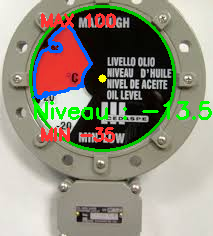
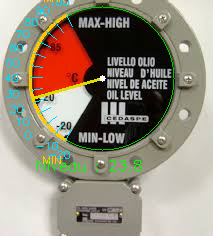
version fonctionnel avec caméra devant

diff --git a/main.py b/main.py
@@ -1,167 +1,188 @@
-# ─── Bibliothèques ────────────────────────────────────────────────────────────
+# ─── Bibliotheques ────────────────────────────────────────────────────────────
 import cv2
 import numpy as np
 
-# ─── PARAMÈTRES ───────────────────────────────────────────────────────────────
-
-# Nom de l'image à analyser (doit être dans le même dossier que ce script)
-IMAGE = "indicateur1.jpeg"
-
-# Valeurs min et max de l'échelle de l'indicateur
-VALEUR_MIN = -35
+# ─── PARAMETRES ───────────────────────────────────────────────────────────────
+IMAGE      = "indicateur1.jpeg"
+VALEUR_MIN = -20
 VALEUR_MAX = 100
 
-# ─── CHARGEMENT DE L'IMAGE ────────────────────────────────────────────────────
+# Convention trigo : 0 deg = droite, sens antihoraire, Y image inverse.
+# MIN est en bas => ~240 deg    MAX est en haut => ~120 deg
+ANGLE_MIN_DEG = 240.0
+ANGLE_MAX_DEG = 120.0
 
-# Charge l'image depuis le dossier courant
+# ─── CHARGEMENT ───────────────────────────────────────────────────────────────
 img = cv2.imread(IMAGE)
 if img is None:
-    print(f"Erreur : impossible de charger '{IMAGE}'. Vérifiez que le fichier est dans le même dossier.")
+    print(f"Erreur : impossible de charger '{IMAGE}'.")
     exit()
 
-# Fait une copie propre pour dessiner dessus à la fin
 img_resultat = img.copy()
-cv2.imshow("Etape 1 : image de base", img_resultat) #à effacer
+cv2.imshow("Etape 1 : image de base", img_resultat)  # a effacer
 
-# ─── ISOLATION DE LA ZONE CIRCULAIRE (LE CADRAN) ──────────────────────────────
+# ─── DETECTION DU CERCLE ──────────────────────────────────────────────────────
+gris        = cv2.cvtColor(img, cv2.COLOR_BGR2GRAY)
+gris_floute = cv2.GaussianBlur(gris, (9, 9), 0)
+cv2.imshow("Etape 2 : gris flou", gris_floute)  # a effacer
 
-# Convertie en niveaux de gris pour détecter le cercle
-gris = cv2.cvtColor(img, cv2.COLOR_BGR2GRAY)
-cv2.imshow("Etape 2 : image en gris", gris) #à effacer
-
-# Floute légèrement pour que la détection de cercle soit plus robuste, enlève le bruit autours des contours
-gris_floute = cv2.GaussianBlur(gris, (9, 9), 0) #La fonction fait une moyenne de la couleur des 9 pixels voisin pour chaque pixel
-cv2.imshow("Etape 3 : image en gris flou", gris_floute) #à effacer
-
-# Cherche le cercle du cadran avec la transformée de Hough
 cercles = cv2.HoughCircles(
-    gris_floute,		# image utilisé
-    cv2.HOUGH_GRADIENT, # méthode utilisé : Chaque pixel de contour (changement brusque d'intensité lumineuse) vote pour tous ces "centres possibles"
-						# dans la direction du gradient, l'endroit qui a le plus de vote est élu centre du cercle et le rayon constant est enrigistré
-    dp=1,             # résolution de l'accumulateur. 1 => même résolution que image. 2 => deux fois plus flou. valeur recommandé => 1.5
-    minDist=100,      # distance minimale entre deux centres cercles détectés
-    param1=50,        # seuil pour la senisibilité  de la détection de contours => 50 à 150
-    param2=20,        # seuil d'accumulation, minimum à attaindre pour être considéré comme un cercle (plus bas = plus permissif) ==> 20 à 100 
-    minRadius=0,
-    maxRadius=300
+    gris_floute, cv2.HOUGH_GRADIENT,
+    dp=1, minDist=100, param1=50, param2=20,
+    minRadius=0, maxRadius=300
+)
+if cercles is None:
+    print("Aucun cercle trouve. Ajuster les parametres de HoughCircles.")
+    exit()
+
+cx, cy, rayon = np.round(cercles[0][0]).astype(int)
+print(f"Cadran detecte => centre : ({cx}, {cy}), rayon : {rayon}px")
+
+masque_cercle = np.zeros(img.shape[:2], dtype=np.uint8)
+cv2.circle(masque_cercle, (cx, cy), rayon, 255, -1)
+cv2.imshow("Etape 3 : masque cadran", masque_cercle)  # a effacer
+
+# ─── MASQUE DE LA ZONE UTILE ──────────────────────────────────────────────────
+angle_min_rad = np.deg2rad(ANGLE_MIN_DEG)
+angle_max_rad = np.deg2rad(ANGLE_MAX_DEG)
+angles_arc    = np.linspace(angle_min_rad, angle_max_rad, 300)
+
+masque_secteur = np.zeros(img.shape[:2], dtype=np.uint8)
+points_arc = np.array([
+    [cx + rayon * np.cos(a), cy - rayon * np.sin(a)]
+    for a in angles_arc
+], dtype=np.int32)
+cv2.fillPoly(masque_secteur, [np.vstack([[cx, cy], points_arc])], 255)
+cv2.imshow("Etape 4 : masque zone utile", masque_secteur)  # a effacer
+
+# ─── DETECTION DU ROUGE ET DU BLANC DANS LA ZONE UTILE ───────────────────────
+hsv = cv2.cvtColor(img, cv2.COLOR_BGR2HSV)
+kernel = cv2.getStructuringElement(cv2.MORPH_ELLIPSE, (5, 5))
+
+masque_rouge = cv2.bitwise_or(
+    cv2.inRange(hsv, np.array([0,   80,  80]), np.array([10,  255, 255])),
+    cv2.inRange(hsv, np.array([160, 80,  80]), np.array([180, 255, 255]))
+)
+masque_rouge = cv2.bitwise_and(masque_rouge, masque_secteur)
+masque_rouge = cv2.morphologyEx(masque_rouge, cv2.MORPH_CLOSE, kernel)
+
+masque_blanc = cv2.inRange(hsv, np.array([0, 0, 180]), np.array([180, 60, 255]))
+masque_blanc = cv2.bitwise_and(masque_blanc, masque_secteur)
+masque_blanc = cv2.morphologyEx(masque_blanc, cv2.MORPH_CLOSE, kernel)
+
+cv2.imshow("Etape 5 : masque rouge", masque_rouge)  # a effacer
+cv2.imshow("Etape 6 : masque blanc", masque_blanc)  # a effacer
+
+# ─── CONTOUR UNIQUEMENT A LA JONCTION ROUGE/BLANC ────────────────────────────
+# On dilate les deux masques pour qu'ils se chevauchent un peu,
+# puis on prend leur intersection : seuls les pixels a la frontiere
+# rouge/blanc sont dans les deux zones dilatees en meme temps.
+# Canny sur l'image originale dans cette zone donne le contour net
+# de la frontiere, sans les bords parasites rouge/noir ou blanc/noir.
+bord_rouge = cv2.dilate(masque_rouge, kernel, iterations=3)
+bord_blanc = cv2.dilate(masque_blanc, kernel, iterations=3)
+jonction   = cv2.bitwise_and(bord_rouge, bord_blanc)
+
+contours_img      = cv2.Canny(gris, 30, 100)
+contour_frontiere = cv2.bitwise_and(contours_img, jonction)
+cv2.imshow("Etape 7 : contour frontiere rouge/blanc", contour_frontiere)  # a effacer
+
+# ─── HOUGH LINEAIRE SUR LE CONTOUR DE LA FRONTIERE ───────────────────────────
+segments = cv2.HoughLinesP(
+    contour_frontiere,
+    rho=1,
+    theta=np.pi/180,
+    threshold=15,
+    minLineLength=rayon * 0.2,
+    maxLineGap=15
 )
 
-if cercles is None:
-    print("Aucun cercle trouvé. Ajuster les paramètres de HoughCircles")
+if segments is None:
+    print("Aucun segment trouve. Verifier les masques rouge et blanc.")
     exit()
 
-# Prend le premier cercle trouvé, cadran intérieur
-cx, cy, rayon = np.round(cercles[0][0]).astype(int)
-print(f"Cadran détecté → centre : ({cx}, {cy}), rayon : {rayon}px")
+# On garde le segment dont la droite portante passe le plus pres du centre
+meilleur_segment = None
+distance_min     = float("inf")
 
-# Je crée un masque circulaire pour ignorer ce qui est en dehors du cadran
-masque_cercle = np.zeros(img.shape[:2], dtype=np.uint8)
-cv2.circle(masque_cercle, (cx, cy), rayon, 255, -1)  # -1 = remplissage
+for seg in segments:
+    x1, y1, x2, y2 = seg[0]
+    dx, dy = x2 - x1, y2 - y1
+    dist = abs(dy * cx - dx * cy + x2 * y1 - y2 * x1) / (np.sqrt(dx**2 + dy**2) + 1e-6)
+    if dist < distance_min:
+        distance_min     = dist
+        meilleur_segment = seg[0]
 
-# ─── DÉTECTION DE LA COULEUR ROSE ─────────────────────────────────────────────
+x1, y1, x2, y2 = meilleur_segment
+print(f"Segment frontiere : ({x1},{y1}) -> ({x2},{y2}), distance au centre : {distance_min:.1f}px")
 
-# Je convertis en HSV, plus pratique pour isoler une couleur
-hsv = cv2.cvtColor(img, cv2.COLOR_BGR2HSV)
+# ─── CALCUL DE L'ANGLE DE LA FRONTIERE ───────────────────────────────────────
+d1 = (x1 - cx)**2 + (y1 - cy)**2
+d2 = (x2 - cx)**2 + (y2 - cy)**2
+px_loin, py_loin = (x2, y2) if d2 > d1 else (x1, y1)
 
-# Plage de couleur pour le rose/rouge 
-# Le rose de l'indicateur tombe dans ces valeurs HSV
-rose_bas = np.array([140, 30, 150])
-rose_haut = np.array([180, 255, 255])
-masque_rose = cv2.inRange(hsv, rose_bas, rose_haut)
+angle_frontiere_rad = np.arctan2(-(py_loin - cy), px_loin - cx)
+angle_frontiere_deg = np.rad2deg(angle_frontiere_rad) % 360
+print(f"Angle frontiere : {angle_frontiere_deg:.1f} deg")
 
-# Je complète avec le rouge côté bas du spectre HSV (0-10)
-rouge_bas = np.array([0, 30, 150])
-rouge_haut = np.array([10, 255, 255])
-masque_rouge = cv2.inRange(hsv, rouge_bas, rouge_haut)
-
-# Je combine les deux masques roses/rouges
-masque_couleur = cv2.bitwise_or(masque_rose, masque_rouge)
-
-# J'applique le masque circulaire : je garde uniquement l'intérieur du cadran
-masque_final = cv2.bitwise_and(masque_couleur, masque_cercle)
-
-# ─── CALCUL DU NIVEAU ─────────────────────────────────────────────────────────
-
-# Je compte les pixels roses dans la moitié basse vs la moitié haute du cadran
-# → le fond tourne, le rose en bas = plein, le blanc en bas = vide
-hauteur_cadran = rayon * 2
-
-# Je découpe le masque dans la zone du cadran
-y1 = max(cy - rayon, 0)
-y2 = min(cy + rayon, img.shape[0])
-x1 = max(cx - rayon, 0)
-x2 = min(cx + rayon, img.shape[1])
-
-zone_masque = masque_final[y1:y2, x1:x2]
-
-# Je calcule le ratio de pixels roses sur l'ensemble de la zone du cadran
-pixels_roses = np.count_nonzero(zone_masque)
-pixels_total = np.count_nonzero(masque_cercle[y1:y2, x1:x2])
-ratio = pixels_roses / pixels_total if pixels_total > 0 else 0
-
-# Je mappe ce ratio sur l'échelle min/max de l'indicateur
+# ─── CALCUL DE LA VALEUR ──────────────────────────────────────────────────────
+plage_deg        = ANGLE_MIN_DEG - ANGLE_MAX_DEG
+mesure_deg       = ANGLE_MIN_DEG - angle_frontiere_deg
+ratio            = max(0.0, min(1.0, mesure_deg / plage_deg))
 valeur_numerisee = VALEUR_MIN + ratio * (VALEUR_MAX - VALEUR_MIN)
-print(f"Pixels roses : {pixels_roses} / {pixels_total} → ratio : {ratio:.2%}")
-print(f"Valeur numérisée : {valeur_numerisee:.1f}")
+print(f"Ratio : {ratio:.2%}  =>  Valeur : {valeur_numerisee:.1f}")
 
-# ─── DÉTECTION DE LA FRONTIÈRE ROSE / BLANC ───────────────────────────────────
+# ─── DESSIN DES ANNOTATIONS ───────────────────────────────────────────────────
 
-# Je floute le masque pour avoir une frontière douce
-masque_floute = cv2.GaussianBlur(masque_final, (21, 21), 0)
-
-# Je cherche les contours de la zone rose (frontière avec le blanc)
-contours, _ = cv2.findContours(masque_final, cv2.RETR_EXTERNAL, cv2.CHAIN_APPROX_SIMPLE)
-
-# ─── DESSIN DES ANNOTATIONS SUR L'IMAGE RÉSULTAT ──────────────────────────────
-
-# Je dessine le cercle du cadran détecté
-cv2.circle(img_resultat, (cx, cy), rayon, (0, 200, 0), 2)
-
-# Je dessine les contours de la frontière rose/blanc en bleu
-cv2.drawContours(img_resultat, contours, -1, (255, 100, 0), 2)
-
-# Je marque le centre du cadran
-cv2.circle(img_resultat, (cx, cy), 4, (0, 255, 255), -1)
-
-# J'ajoute le texte MIN en bas du cadran
-pos_min = (cx - rayon + 10, cy + rayon - 10)
-cv2.putText(img_resultat, f"MIN {VALEUR_MIN}", pos_min,
-            cv2.FONT_HERSHEY_SIMPLEX, 0.55, (50, 50, 255), 2)
-
-# J'ajoute le texte MAX en haut du cadran
-pos_max = (cx - rayon + 10, cy - rayon + 20)
-cv2.putText(img_resultat, f"MAX {VALEUR_MAX}", pos_max,
-            cv2.FONT_HERSHEY_SIMPLEX, 0.55, (50, 50, 255), 2)
-
-# J'affiche la valeur numérisée bien visible au centre
-label = f"Niveau : {valeur_numerisee:.1f}"
-cv2.putText(img_resultat, label, (cx - 70, cy + 40),
-            cv2.FONT_HERSHEY_SIMPLEX, 0.75, (0, 255, 0), 2)
-
-# ─── SUPERPOSITION DU MASQUE ROSE EN TRANSPARENCE ────────────────────────────
-
-# Je crée une image colorée à partir du masque (rose semi-transparent)
 overlay = img_resultat.copy()
-overlay[masque_final > 0] = [180, 60, 180]  # je colorie les pixels roses détectés
-img_resultat = cv2.addWeighted(overlay, 0.25, img_resultat, 0.75, 0)  # je mélange
+overlay[masque_rouge > 0] = [0, 0, 200]
+img_resultat = cv2.addWeighted(overlay, 0.3, img_resultat, 0.7, 0)
 
-# Je re-dessine les textes par-dessus la transparence (sinon ils sont écrasés)
-cv2.drawContours(img_resultat, contours, -1, (255, 100, 0), 2)
-cv2.putText(img_resultat, f"MIN {VALEUR_MIN}", pos_min,
-            cv2.FONT_HERSHEY_SIMPLEX, 0.55, (50, 50, 255), 2)
-cv2.putText(img_resultat, f"MAX {VALEUR_MAX}", pos_max,
-            cv2.FONT_HERSHEY_SIMPLEX, 0.55, (50, 50, 255), 2)
-cv2.putText(img_resultat, label, (cx - 70, cy + 40),
-            cv2.FONT_HERSHEY_SIMPLEX, 0.75, (0, 255, 0), 2)
+cv2.circle(img_resultat, (cx, cy), rayon, (0, 200, 0), 1)
+
+for i in range(len(angles_arc) - 1):
+    p1 = (int(cx + rayon * np.cos(angles_arc[i])),   int(cy - rayon * np.sin(angles_arc[i])))
+    p2 = (int(cx + rayon * np.cos(angles_arc[i+1])), int(cy - rayon * np.sin(angles_arc[i+1])))
+    cv2.line(img_resultat, p1, p2, (0, 200, 255), 2)
+
+# Graduations de 10 en 10 : de -20 a 100 => 13 graduations
+valeurs_grad = range(int(VALEUR_MIN), int(VALEUR_MAX) + 1, 10)
+for val in valeurs_grad:
+    t     = (val - VALEUR_MIN) / (VALEUR_MAX - VALEUR_MIN)
+    angle = angle_min_rad + t * (angle_max_rad - angle_min_rad)
+
+    px_ext = int(cx + rayon        * np.cos(angle))
+    py_ext = int(cy - rayon        * np.sin(angle))
+    px_int = int(cx + (rayon - 12) * np.cos(angle))
+    py_int = int(cy - (rayon - 12) * np.sin(angle))
+    px_lbl = int(cx + (rayon + 16) * np.cos(angle))
+    py_lbl = int(cy - (rayon + 16) * np.sin(angle))
+
+    cv2.line(img_resultat, (px_int, py_int), (px_ext, py_ext), (255, 220, 0), 1)
+    cv2.putText(img_resultat, f"{val:.0f}", (px_lbl - 10, py_lbl + 4),
+                cv2.FONT_HERSHEY_SIMPLEX, 0.35, (255, 220, 0), 1)
+
+for label, angle_r in [("MIN", angle_min_rad), ("MAX", angle_max_rad)]:
+    px = int(cx + (rayon + 22) * np.cos(angle_r))
+    py = int(cy - (rayon + 22) * np.sin(angle_r))
+    cv2.putText(img_resultat, label, (px - 12, py + 4),
+                cv2.FONT_HERSHEY_SIMPLEX, 0.35, (0, 200, 255), 1)
+
+px_bord = int(cx + rayon * np.cos(angle_frontiere_rad))
+py_bord = int(cy - rayon * np.sin(angle_frontiere_rad))
+cv2.line(img_resultat, (cx, cy), (px_bord, py_bord), (0, 220, 220), 2)
+
+cv2.circle(img_resultat, (cx, cy), 3, (255, 255, 255), -1)
+
+cv2.putText(img_resultat, f"Niveau : {valeur_numerisee:.1f}",
+            (cx - rayon + 5, cy + rayon + 20),
+            cv2.FONT_HERSHEY_SIMPLEX, 0.5, (0, 255, 0), 1)
 
 # ─── SAUVEGARDE ET AFFICHAGE ──────────────────────────────────────────────────
-
-# Je sauvegarde l'image annotée dans le même dossier
 cv2.imwrite("resultat_analyse.png", img_resultat)
-print("Image annotée sauvegardée : resultat_analyse.png")
+print("Image sauvegardee : resultat_analyse.png")
 
-# J'affiche les deux images côte à côte pour comparer
-cv2.imshow("Image originale", img)
+cv2.imshow("Image originale",      img)
 cv2.imshow("Analyse niveau huile", img_resultat)
-cv2.waitKey(0)   # j'attends que l'utilisateur appuie sur une touche
+cv2.waitKey(0)
 cv2.destroyAllWindows()
